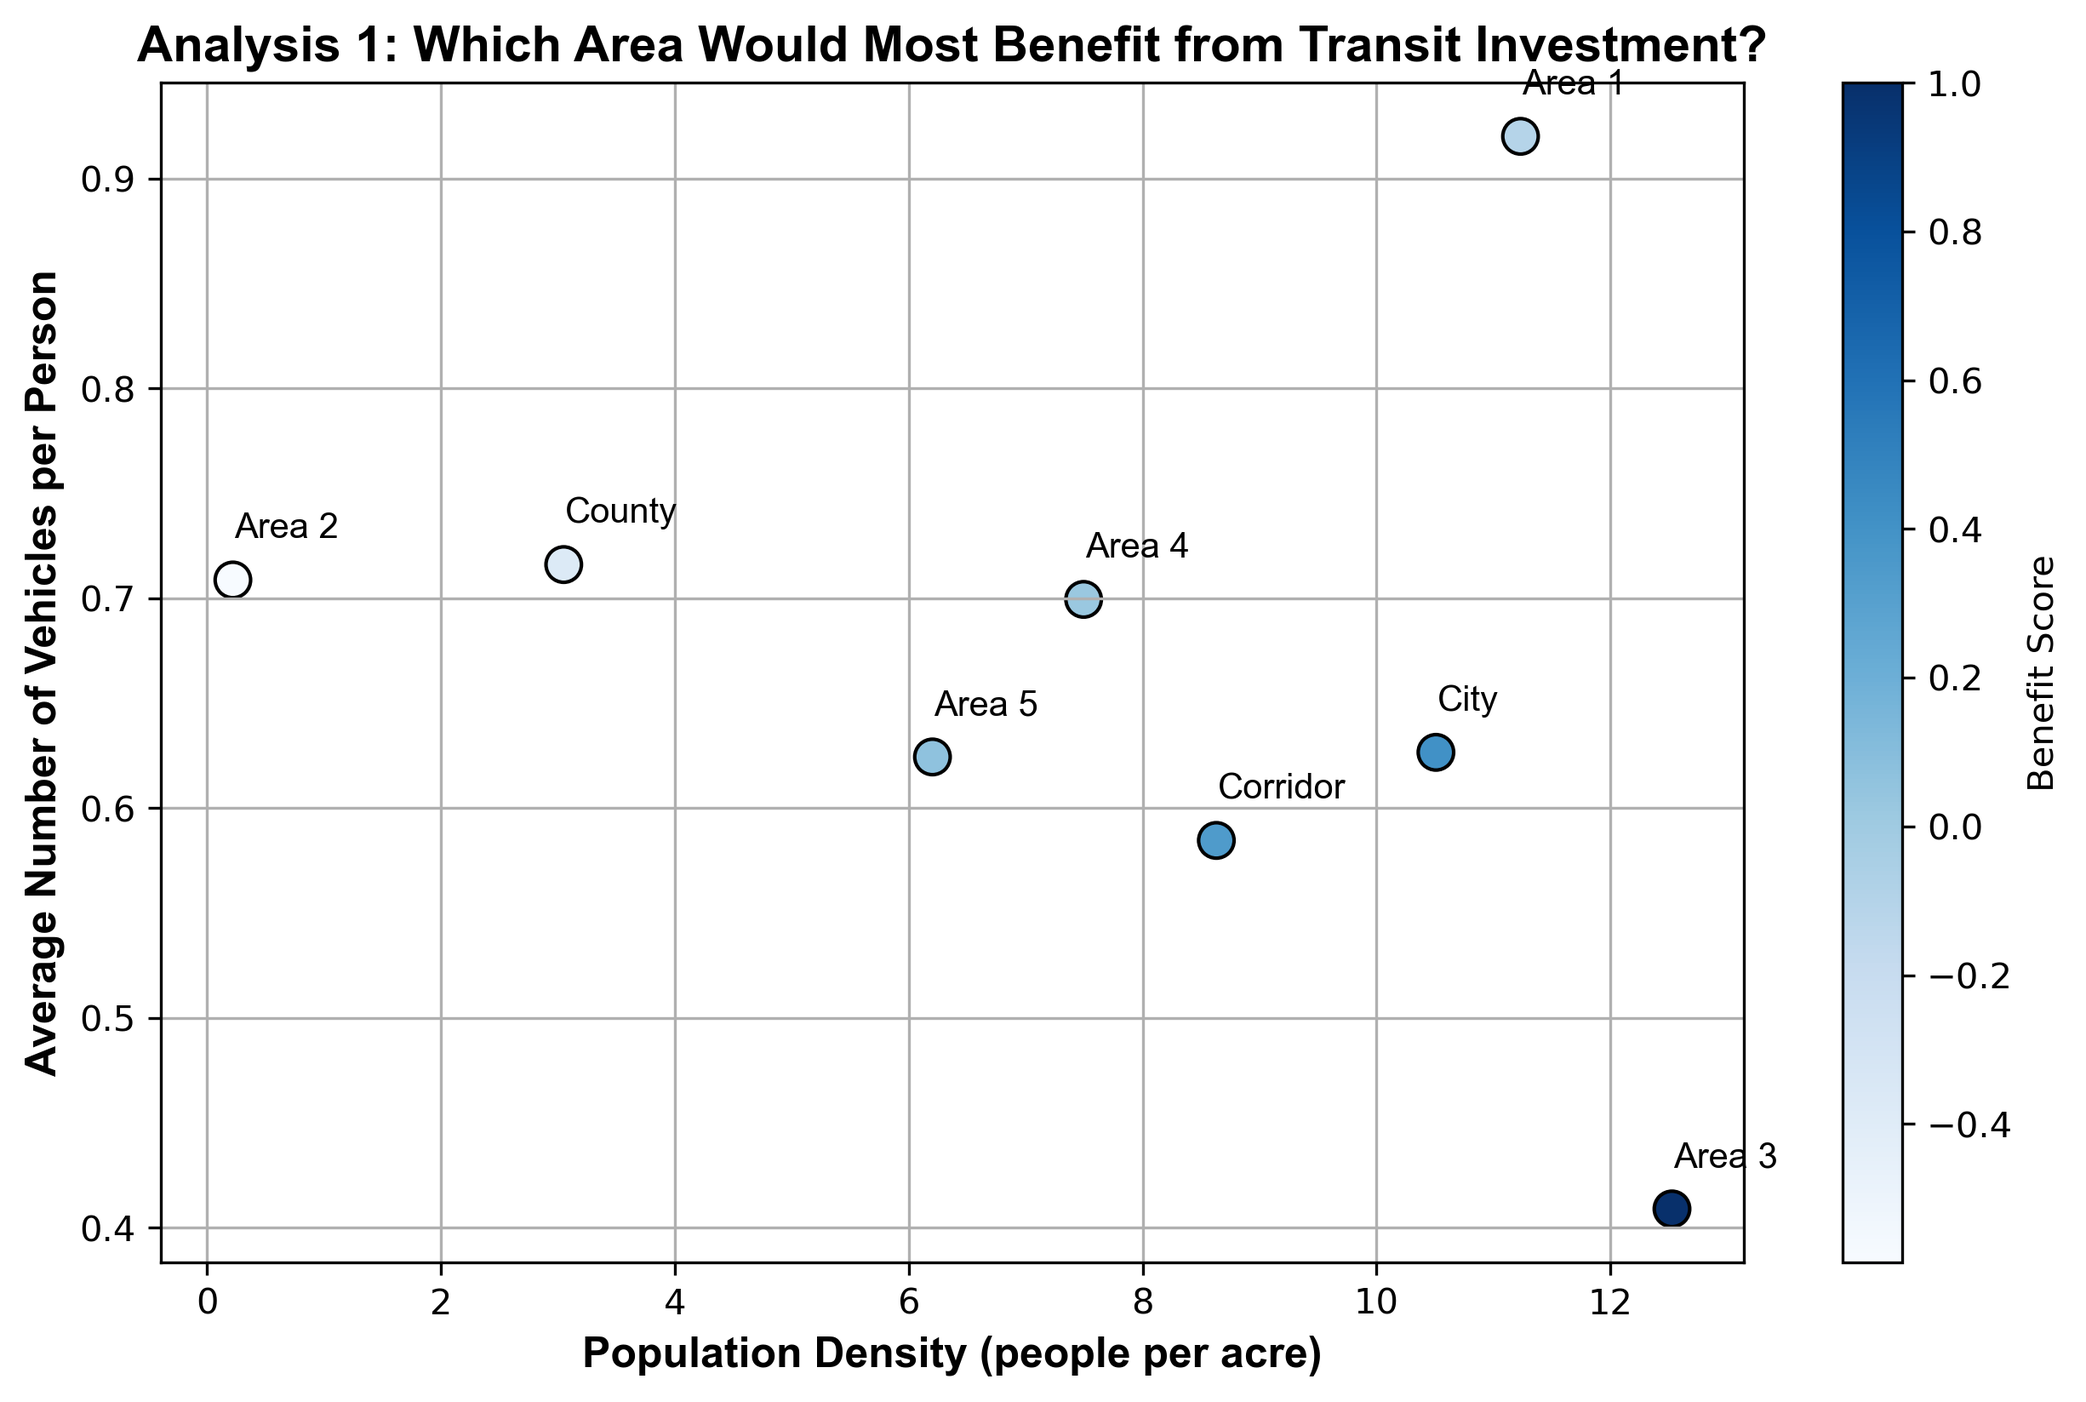
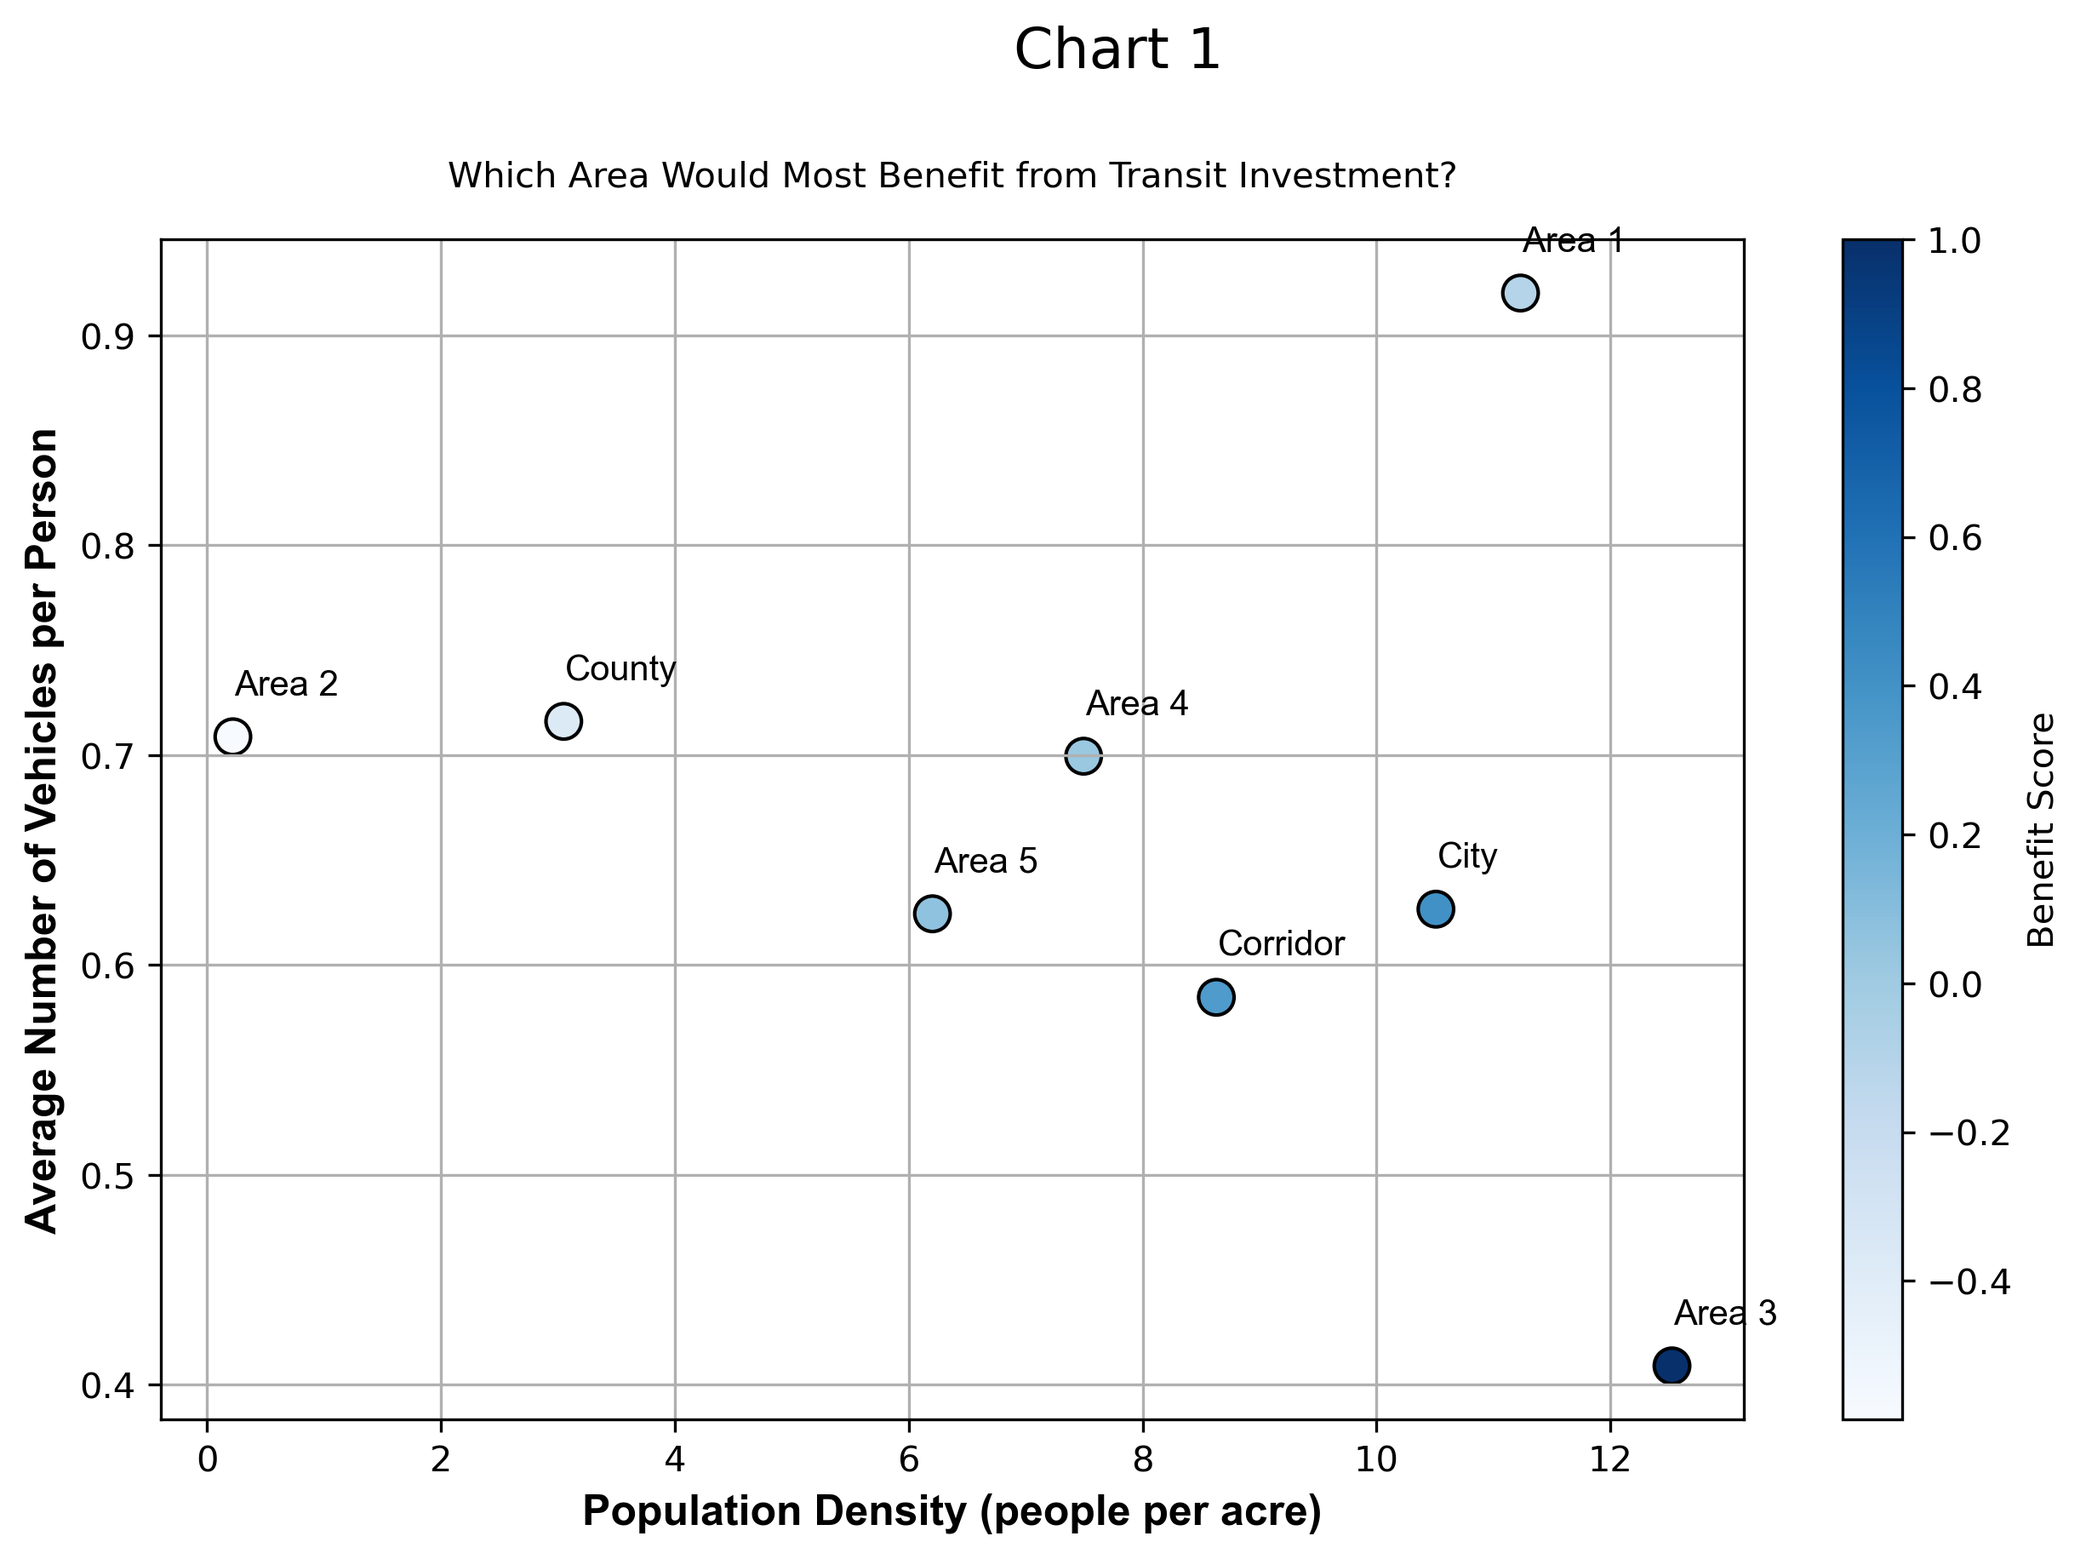
readme made

diff --git a/analysis2a.py b/analysis2a.py
@@ -2,88 +2,62 @@ import pandas as pd
 import matplotlib.pyplot as plt
 import seaborn as sns
 
-# load data and rename columns
-table1 = pd.read_csv('table1.csv')
-table2 = pd.read_csv('table2.csv')
+
+# load, clean, and merge data
+table1 = pd.read_csv("table1.csv")
+table2 = pd.read_csv("table2.csv")
 table1.columns = [
-    "area",
-    "pop",
-    "acres",
-    "pop_density",
-    "avg_hh_size",
-    "pct_0_vehicles",
-    "pct_1_vehicle",
-    "pct_2_plus_vehicles",
+    "area", "pop", "acres", "pop_density", "avg_hh_size",
+    "pct_0_vehicles", "pct_1_vehicle", "pct_2_plus_vehicles",
 ]
 table2.columns = [
-    'area',
-    'age_0_19',
-    'age_20_34',
-    'age_35_44',
-    'age_45_64',
-    'age_65_plus',
-    'unemployment_rate',
-    'poverty_rate',
-    'mhi'
+    "area", "age_0_19", "age_20_34", "age_35_44", "age_45_64",
+    "age_65_plus", "unemployment_rate", "poverty_rate", "mhi"
 ]
-df = pd.merge(table1, table2, on='area', how='inner')
+df = pd.merge(table1, table2, on="area", how="inner")
+full_names = {
+    "unemployment_rate": "Unemployment Rate",
+    "poverty_rate": "Poverty Rate",
+    "mhi": "Median Household Income",
+    "pop": "Population",
+    "acres": "Size (acres)",
+    "pop_density": "Population Density",
+    "avg_hh_size": "Average Household Size",
+    "pct_0_vehicles": "%HH 0 Vehicles",
+    "pct_1_vehicle": "%HH 1 Vehicle",
+    "pct_2_plus_vehicles": "%HH 2+ Vehicles",
+    "age_0_19": "% Age 0-19",
+    "age_20_34": "% Age 20-34",
+    "age_35_44": "% Age 35-44",
+    "age_45_64": "% Age 45-64",
+    "age_65_plus": "% Age 65+"
+}
 
-# ensure vehicle ownership types sum to 100%
-vehicle_pct_sum = df["pct_0_vehicles"] + df["pct_1_vehicle"] + df["pct_2_plus_vehicles"]
-df.loc[vehicle_pct_sum < 1, ["pct_0_vehicles", "pct_1_vehicle", "pct_2_plus_vehicles"]] = (
-    df.loc[vehicle_pct_sum < 1, ["pct_0_vehicles", "pct_1_vehicle", "pct_2_plus_vehicles"]].div(vehicle_pct_sum, axis=0)
-)
 
-# calculate vehicle ownership
-TWO_PLUS_VEHICLE_ESTIMATE = 2.5
-df["avg_num_vehicles"] = df["pct_2_plus_vehicles"] * TWO_PLUS_VEHICLE_ESTIMATE + df["pct_1_vehicle"]
-df["avg_num_vehicles_per_person"] = df["avg_num_vehicles"] / df["avg_hh_size"]
+# define socioeconomic indicators and demographic metrics
+socioeconomic_indicators = ["unemployment_rate", "poverty_rate", "mhi"]
+demographic_stats = [
+    "pop", "acres", "pop_density", "avg_hh_size",
+    "pct_0_vehicles", "pct_1_vehicle", "pct_2_plus_vehicles",
+    "age_0_19", "age_20_34", "age_35_44", "age_45_64", "age_65_plus"
+]
 
-# plot average number of vehicles per person vs poverty rate, unemployment rate, and median household income
-fig, ax1 = plt.subplots(figsize=(12, 6))
-plt.subplots_adjust(left=0.1, right=0.85, top=0.85, bottom=0.1)
 
-# add title
-fig.suptitle("Analysis 2a: Mapping Vehicle Ownership to Socioeconomic Indicators",
-             fontsize=14,
-             fontweight='bold',
-             fontname="Arial")
+# calculate correlations
+correlations = df[socioeconomic_indicators + demographic_stats].corr()
+correlations_display = correlations.rename(index=full_names, columns=full_names)
 
-# create y-axis for unemployment rate
-ax2 = ax1.twinx()
 
-# create y-axis for median household income
-ax3 = ax1.twinx()
-ax3.spines["right"].set_position(("outward", 60))
-
-# plot regression lines
-sns.regplot(x="avg_num_vehicles_per_person", y="poverty_rate", data=df, ax=ax1, color="blue", label="Poverty Rate", scatter_kws={"s": 10}, line_kws={"color": "blue"}, ci=None, truncate=False)
-sns.regplot(x="avg_num_vehicles_per_person", y="unemployment_rate", data=df, ax=ax2, color="green", label="Unemployment Rate", scatter_kws={"s": 10}, line_kws={"color": "green"}, ci=None, truncate=False)
-sns.regplot(x="avg_num_vehicles_per_person", y="mhi", data=df, ax=ax3, color="red", label="Median Household Income", scatter_kws={"s": 10}, line_kws={"color": "red"}, ci=None, truncate=False)
-
-# add vertical lines and labels for each area
-for i, area in enumerate(df['area']):
-    x = df.loc[i, 'avg_num_vehicles_per_person']
-    if area == "Area 5": 
-        x -= 0.005 # so it doesn't overlap with City
-    elif area == "City":
-        x += 0.005 # so it doesn't overlap with Area 5
-    ax1.axvline(x=x, color='gray', linestyle='--', linewidth=0.5)
-    ax1.text(x , ax1.get_ylim()[1] * 1.02, area, rotation=45, verticalalignment='bottom', fontsize=8, color='gray')
-    
-ax1.set_xlabel("Average Number of Vehicles per Person")
-ax1.set_ylabel("Poverty Rate", color="blue")
-ax1.tick_params(axis='y', colors='blue')
-ax1.spines['left'].set_color('blue')
-ax1.yaxis.set_major_formatter(plt.FuncFormatter(lambda x, _: f'{x*100:.0f}%'))
-
-ax2.set_ylabel("Unemployment Rate", color="green")
-ax2.tick_params(axis='y', colors='green')
-ax2.spines['right'].set_color('green')
-ax2.yaxis.set_major_formatter(plt.FuncFormatter(lambda x, _: f'{x*100:.0f}%'))
-
-ax3.set_ylabel("Median Household Income", color="red")
-ax3.tick_params(axis='y', colors='red')
-ax3.spines['right'].set_color('red')
-
-plt.savefig("analysis2a.png", dpi=300, bbox_inches='tight')
+# plot heatmap
+plt.figure(figsize=(12, 8))
+heatmap = sns.heatmap(correlations_display.loc[list(full_names.values())[:3], list(full_names.values())[3:]],
+                                               annot=True,
+                                               cmap="coolwarm",
+                                               annot_kws={"size": 8},
+                                               cbar_kws={"orientation": "horizontal", "pad": 0.25})
+plt.suptitle("Chart 2a", fontsize=16, y=0.95)
+plt.title("Correlation between Socioeconomic Indicators and Demographic Metrics", fontsize=10, pad=10)
+plt.xticks(rotation=45, ha='right', wrap=True)
+plt.yticks(rotation=0)
+heatmap.set_yticklabels(heatmap.get_yticklabels(), rotation=0, ha='right', wrap=True)
+plt.savefig("chart2a.png", dpi=300, bbox_inches='tight')

diff --git a/analysis2b.py b/analysis2b.py
@@ -2,6 +2,7 @@ import pandas as pd
 import matplotlib.pyplot as plt
 import seaborn as sns
 
+
 # load data and rename columns
 table1 = pd.read_csv('table1.csv')
 table2 = pd.read_csv('table2.csv')
@@ -28,56 +29,57 @@ table2.columns = [
 ]
 df = pd.merge(table1, table2, on='area', how='inner')
 
+
 # ensure vehicle ownership types sum to 100%
 vehicle_pct_sum = df["pct_0_vehicles"] + df["pct_1_vehicle"] + df["pct_2_plus_vehicles"]
 df.loc[vehicle_pct_sum < 1, ["pct_0_vehicles", "pct_1_vehicle", "pct_2_plus_vehicles"]] = (
     df.loc[vehicle_pct_sum < 1, ["pct_0_vehicles", "pct_1_vehicle", "pct_2_plus_vehicles"]].div(vehicle_pct_sum, axis=0)
 )
 
+
 # calculate vehicle ownership
 TWO_PLUS_VEHICLE_ESTIMATE = 2.5
 df["avg_num_vehicles"] = df["pct_2_plus_vehicles"] * TWO_PLUS_VEHICLE_ESTIMATE + df["pct_1_vehicle"]
 df["avg_num_vehicles_per_person"] = df["avg_num_vehicles"] / df["avg_hh_size"]
 
-# plot average number of vehicles per person vs poverty rate, unemployment rate, and median household income
+
+# plot average number of vehicles per person vs socioeconomic indicators
 fig, ax1 = plt.subplots(figsize=(12, 6))
-plt.subplots_adjust(left=0.1, right=0.85, top=0.85, bottom=0.1)  # Adjust top to ensure title is not cut off
-
-# Create a second y-axis for unemployment rate
+plt.subplots_adjust(left=0.1, right=0.85, top=0.8, bottom=0.2)
+fig.suptitle("Chart 2b", fontsize=16, y=0.95)  # Keep title position
+fig.text(0.5, 0.9, "Mapping Vehicle Ownership to Socioeconomic Indicators", ha='center', fontsize=10)
 ax2 = ax1.twinx()
-
-# Create a third y-axis for median household income
 ax3 = ax1.twinx()
 ax3.spines["right"].set_position(("outward", 60))
 
+
+# plot regression lines
 sns.regplot(x="avg_num_vehicles_per_person", y="poverty_rate", data=df, ax=ax1, color="blue", label="Poverty Rate", scatter_kws={"s": 10}, line_kws={"color": "blue"}, ci=None, truncate=False)
 sns.regplot(x="avg_num_vehicles_per_person", y="unemployment_rate", data=df, ax=ax2, color="green", label="Unemployment Rate", scatter_kws={"s": 10}, line_kws={"color": "green"}, ci=None, truncate=False)
 sns.regplot(x="avg_num_vehicles_per_person", y="mhi", data=df, ax=ax3, color="red", label="Median Household Income", scatter_kws={"s": 10}, line_kws={"color": "red"}, ci=None, truncate=False)
 
-# Add vertical lines and labels for each area
-for i, area in enumerate(df['area']):
-    x = df.loc[i, 'avg_num_vehicles_per_person']
-    ax1.axvline(x=x, color='gray', linestyle='--', linewidth=0.5)
-    if area == "Area 5":
-        ax1.text(x - 0.005, ax1.get_ylim()[1] * 1.02, area, rotation=45, verticalalignment='bottom', fontsize=8, color='gray')
-    elif area == "City":
-        ax1.text(x + 0.005, ax1.get_ylim()[1] * 1.02, area, rotation=45, verticalalignment='bottom', fontsize=8, color='gray')
-    else:
-        ax1.text(x, ax1.get_ylim()[1] * 1.02, area, rotation=45, verticalalignment='bottom', fontsize=8, color='gray')
 
-ax1.set_xlabel("Average Number of Vehicles per Person")
-ax1.set_ylabel("Poverty Rate", color="blue")
+# add vertical lines and labels for each area
+for i, area in enumerate(df['area']):
+    line_x = label_x = df.loc[i, 'avg_num_vehicles_per_person']
+    if area == "Area 5": 
+        label_x -= 0.005 # so it doesn't overlap with City
+    elif area == "City":
+        label_x += 0.005 # so it doesn't overlap with Area 5
+    ax1.axvline(x=line_x, color='gray', linestyle='--', linewidth=0.5)
+    ax1.text(label_x , ax1.get_ylim()[1] * 1.02, area, rotation=45, verticalalignment='bottom', fontsize=8, color='gray')
+
+
+ax1.set_xlabel("Average Number of Vehicles per Person", fontweight='bold')
+ax1.set_ylabel("Poverty Rate", color="blue", fontweight='bold')
 ax1.tick_params(axis='y', colors='blue')
 ax1.spines['left'].set_color('blue')
 ax1.yaxis.set_major_formatter(plt.FuncFormatter(lambda x, _: f'{x*100:.0f}%'))
-
-ax2.set_ylabel("Unemployment Rate", color="green")
+ax2.set_ylabel("Unemployment Rate", color="green", fontweight='bold')
 ax2.tick_params(axis='y', colors='green')
 ax2.spines['right'].set_color('green')
 ax2.yaxis.set_major_formatter(plt.FuncFormatter(lambda x, _: f'{x*100:.0f}%'))
-
-ax3.set_ylabel("Median Household Income", color="red")
+ax3.set_ylabel("Median Household Income", color="red", fontweight='bold')
 ax3.tick_params(axis='y', colors='red')
 ax3.spines['right'].set_color('red')
-
-plt.show()
+plt.savefig("chart2b.png", dpi=300, bbox_inches='tight')

diff --git a/analysis4.py b/analysis4.py
@@ -1,0 +1,71 @@
+import pandas as pd
+import sqlite3
+
+
+# load and clean data
+df = pd.read_csv('table4.csv')
+df['id'] = df['Category'].str.extract('(\d+)').astype(int)
+df['use'] = df['Use'].str.lower()
+df['leased'] = df['Leased?'].map({'Yes': True, 'No': False})
+df['rentable_sf'] = df['Rentable SF'].str.replace(',', '').str.extract('(\d+)').astype(int)
+df['annual_rent_psf'] = df['Rent PSF per Year'].str.replace('$', '').astype(int)
+df = df[['id', 'use', 'leased', 'rentable_sf', 'annual_rent_psf']]
+
+
+# connect to db and import data
+conn = sqlite3.connect('database.db')
+df.to_sql('spaces', conn, if_exists='replace', index=False)
+cursor = conn.cursor()
+
+
+# Q1: total annual rental income for the building
+total_annual_rental_income_query = """
+SELECT SUM(rentable_sf * annual_rent_psf) AS total_annual_rental_income
+FROM spaces
+WHERE leased = 1
+"""
+cursor.execute(total_annual_rental_income_query)
+total_annual_rental_income = cursor.fetchone()[0]
+
+
+# Q2: space that generates the most gross rental income
+space_with_most_gross_rental_income_query = """
+SELECT id, rentable_sf * annual_rent_psf AS gross_rental_income
+FROM spaces
+ORDER BY gross_rental_income DESC
+LIMIT 1
+"""
+cursor.execute(space_with_most_gross_rental_income_query)
+space_with_most_gross_rental_income = cursor.fetchone()
+
+
+# Q3: vacancy rate of retail space in the building
+vacancy_rate_retail_query = """
+SELECT (1.0 - CAST(SUM(CASE WHEN leased = 1 THEN rentable_sf ELSE 0 END) AS FLOAT) / SUM(rentable_sf)) * 100 AS vacancy_rate
+FROM spaces
+WHERE use = 'retail'
+"""
+cursor.execute(vacancy_rate_retail_query)
+vacancy_rate_retail = cursor.fetchone()[0]
+
+
+# Q4: average rent per square foot of leased retail spaces in the building
+average_rent_per_sf_leased_retail_query = """
+SELECT SUM(rentable_sf * annual_rent_psf) / SUM(rentable_sf) AS average_rent_per_sf
+FROM spaces
+WHERE use = 'retail' AND leased = 1
+"""
+cursor.execute(average_rent_per_sf_leased_retail_query)
+average_rent_per_sf_leased_retail = cursor.fetchone()[0]
+
+
+# write results to output file
+with open('output4.txt', 'w') as f:
+    f.write(f"Total annual rental income for the building: ${total_annual_rental_income:,.0f}\n")
+    f.write(f"Space that generates the most gross rental income: Space {space_with_most_gross_rental_income[0]}\n")
+    f.write(f"Vacancy rate of retail space in the building: {vacancy_rate_retail:.2f}%\n")
+    f.write(f"Average rent per square foot of leased retail spaces in the building: ${average_rent_per_sf_leased_retail:,.2f}\n")
+
+
+# close db connection
+conn.close()

diff --git a/analysis1.py b/analysis1.py
@@ -3,6 +3,7 @@ import matplotlib.pyplot as plt
 from matplotlib.colors import Normalize
 from matplotlib import cm
 
+
 # load data and rename columns
 df = pd.read_csv("table1.csv")
 df.columns = [
@@ -16,21 +17,25 @@ df.columns = [
     "pct_2_plus_vehicles",
 ]
 
+
 # ensure vehicle ownership types sum to 100%
 vehicle_pct_sum = df["pct_0_vehicles"] + df["pct_1_vehicle"] + df["pct_2_plus_vehicles"]
 df.loc[vehicle_pct_sum < 1, ["pct_0_vehicles", "pct_1_vehicle", "pct_2_plus_vehicles"]] = (
     df.loc[vehicle_pct_sum < 1, ["pct_0_vehicles", "pct_1_vehicle", "pct_2_plus_vehicles"]].div(vehicle_pct_sum, axis=0)
 )
 
+
 # calculate vehicle ownership
 TWO_PLUS_VEHICLE_ESTIMATE = 2.5
 df["avg_num_vehicles"] = df["pct_2_plus_vehicles"] * TWO_PLUS_VEHICLE_ESTIMATE + df["pct_1_vehicle"]
 df["avg_num_vehicles_per_person"] = df["avg_num_vehicles"] / df["avg_hh_size"]
 
+
 # calculate benefit score
 pop_density_norm = (df["pop_density"] - df["pop_density"].min()) / (df["pop_density"].max() - df["pop_density"].min())
 vehicles_per_person_norm = (df["avg_num_vehicles_per_person"] - df["avg_num_vehicles_per_person"].min()) / (df["avg_num_vehicles_per_person"].max() - df["avg_num_vehicles_per_person"].min())
 benefit_score = pop_density_norm - vehicles_per_person_norm
+
 
 # generate plot
 plt.figure(figsize=(10, 6))
@@ -49,9 +54,10 @@ for i in range(df.shape[0]):
              fontweight='light', 
              fontname="Arial",
              color='black')
-plt.title("Analysis 1: Which Area Would Most Benefit from Transit Investment?", fontsize=14, fontweight='bold', fontname="Arial")
+plt.suptitle("Chart 1", fontsize=16, y=1.02)  # Adjusted y to move subtitle up
+plt.title("Which Area Would Most Benefit from Transit Investment?", fontsize=10, pad=15)  # Increased pad to avoid overlap
 plt.xlabel("Population Density (people per acre)", fontsize=12, fontweight='bold', fontname="Arial")
 plt.ylabel("Average Number of Vehicles per Person", fontsize=12, fontweight='bold', fontname="Arial")
 plt.colorbar(scatter, label='Benefit Score')
 plt.grid(True)
-plt.savefig("analysis1.png", dpi=300, bbox_inches='tight')
+plt.savefig("chart1.png", dpi=300, bbox_inches='tight')

diff --git a/README.md b/README.md
@@ -1,0 +1,19 @@
+# How to Read This Repo
+
+## Description
+Provide a brief description of your project here.
+
+## Installation
+Describe the steps required to install your project.
+
+## Usage
+Provide instructions and examples for using your project.
+
+## Contributing
+Explain how others can contribute to your project.
+
+## License
+Include the license under which your project is distributed.
+
+## Contact
+Provide your contact information for any questions or comments.
